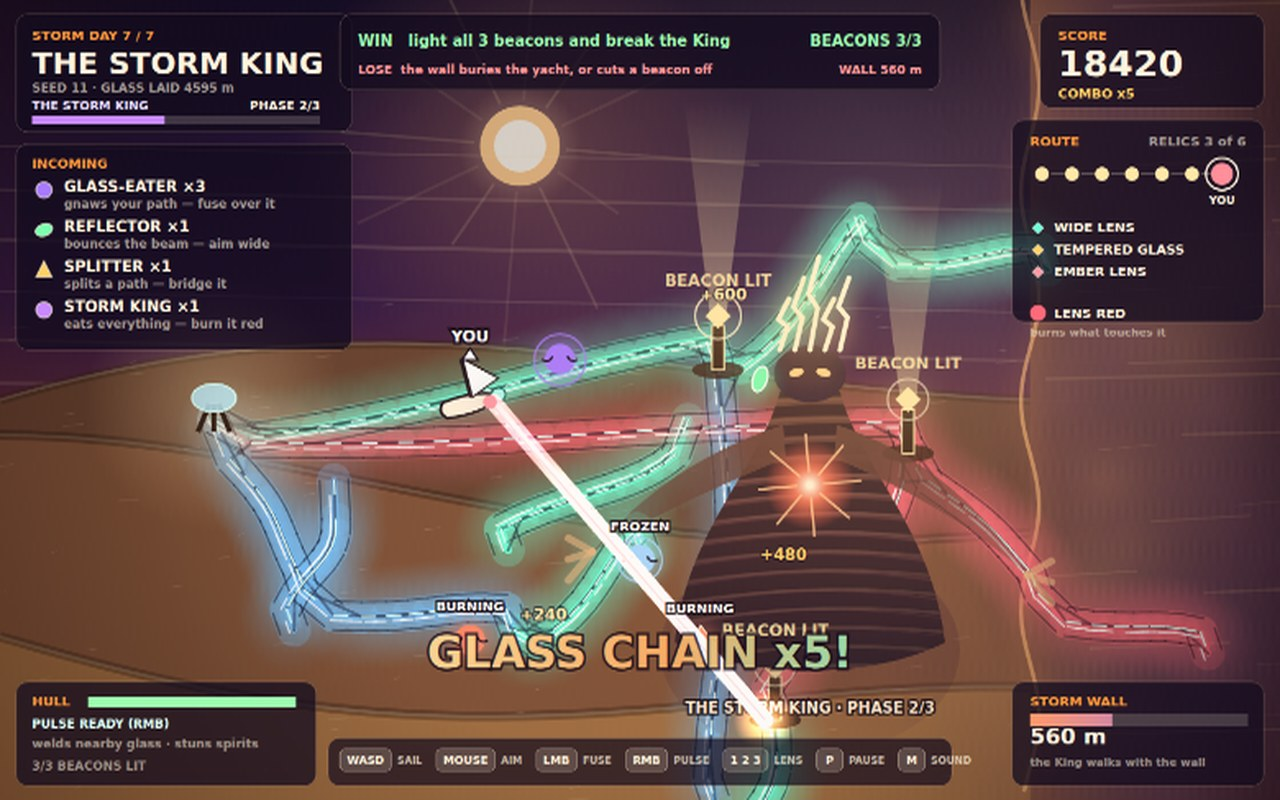
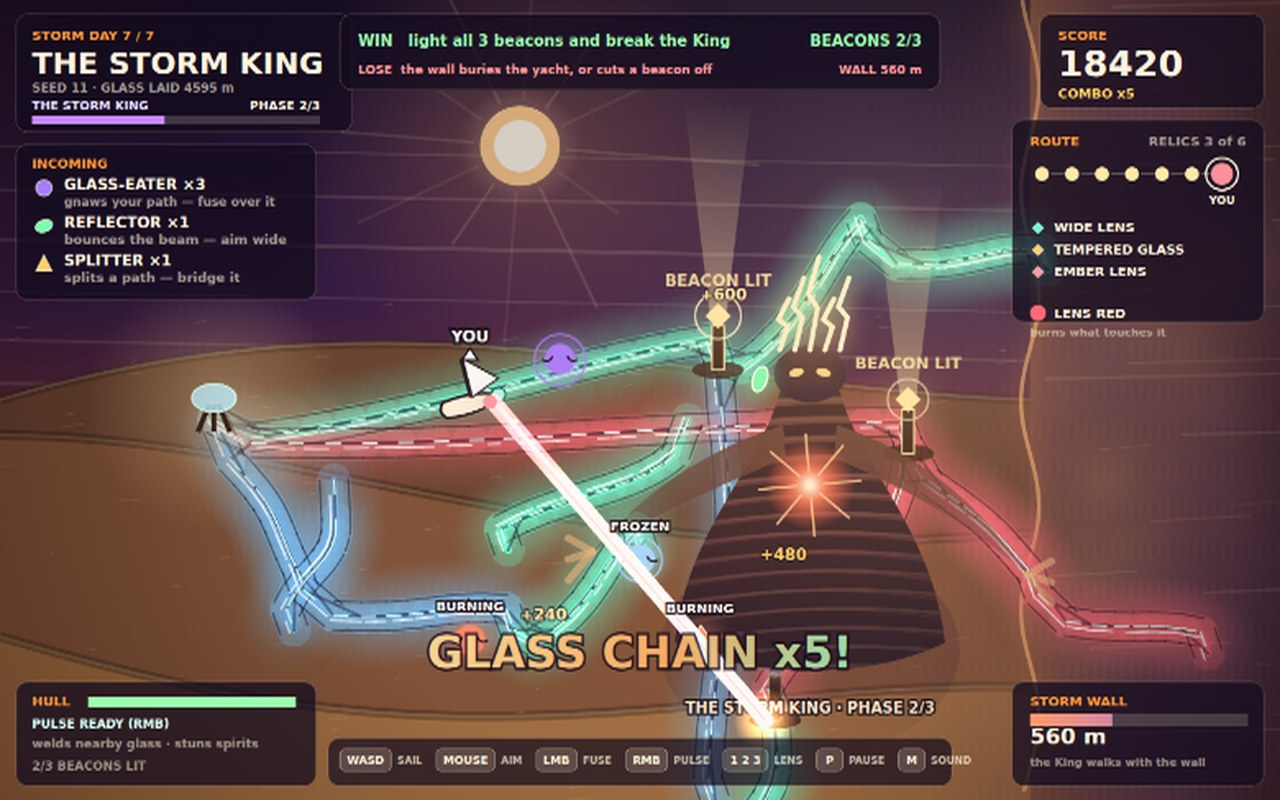
Cover shows work left, tighter incoming list

Changed region(s): [[0.0, 0.1875, 0.2812, 0.4375], [0.5625, 0.7812, 0.6562, 0.8125], [0.5938, 0.8438, 0.625, 0.875]]

diff --git a/game/src/hud.js b/game/src/hud.js
@@ -173,18 +173,18 @@ export function drawHud(ctx, state) {
   if (countOf('reflector')) incoming.push(['reflector', 'REFLECTOR', countOf('reflector'), 'bounces the beam — aim wide', '#7dffb0']);
   if (countOf('splitter')) incoming.push(['splitter', 'SPLITTER', countOf('splitter'), 'splits a path — bridge it', '#ffd166']);
   if (boss) incoming.push(['eater', 'STORM KING', 1, 'eats everything — burn it red', '#c98aff']);
-  const incH = 46 + incoming.length * 40;
-  panel(ctx, 16, leftH + 26, 336, incH);
+  const incH = 42 + Math.min(incoming.length, 3) * 38;
+  panel(ctx, 16, leftH + 26, 300, incH);
   ctx.font = font(13, 800);
   ctx.fillStyle = PALETTE.accent;
   ctx.fillText('INCOMING', 32, leftH + 50);
-  incoming.forEach(([type, name, count, hint, colour], index) => {
-    const y = leftH + 74 + index * 40;
+  incoming.slice(0, 3).forEach(([type, name, count, hint, colour], index) => {
+    const y = leftH + 72 + index * 38;
     spiritIcon(ctx, type, 44, y - 2, colour);
     ctx.font = font(15, 800);
     ctx.fillStyle = '#fff4de';
     ctx.fillText(`${name} ×${count}`, 64, y);
-    fitText(ctx, hint, 264, 12, 600);
+    fitText(ctx, hint, 226, 13, 600);
     ctx.fillStyle = 'rgba(255,244,222,0.62)';
     ctx.fillText(hint, 64, y + 16);
   });

diff --git a/game/src/shots.js b/game/src/shots.js
@@ -119,6 +119,7 @@ export function stageShot(name, ctx) {
       Object.assign(spirit, flags);
     });
 
+    day.ports[2].lit = false;
     state.time = 62.4;
     draw();
     return;
